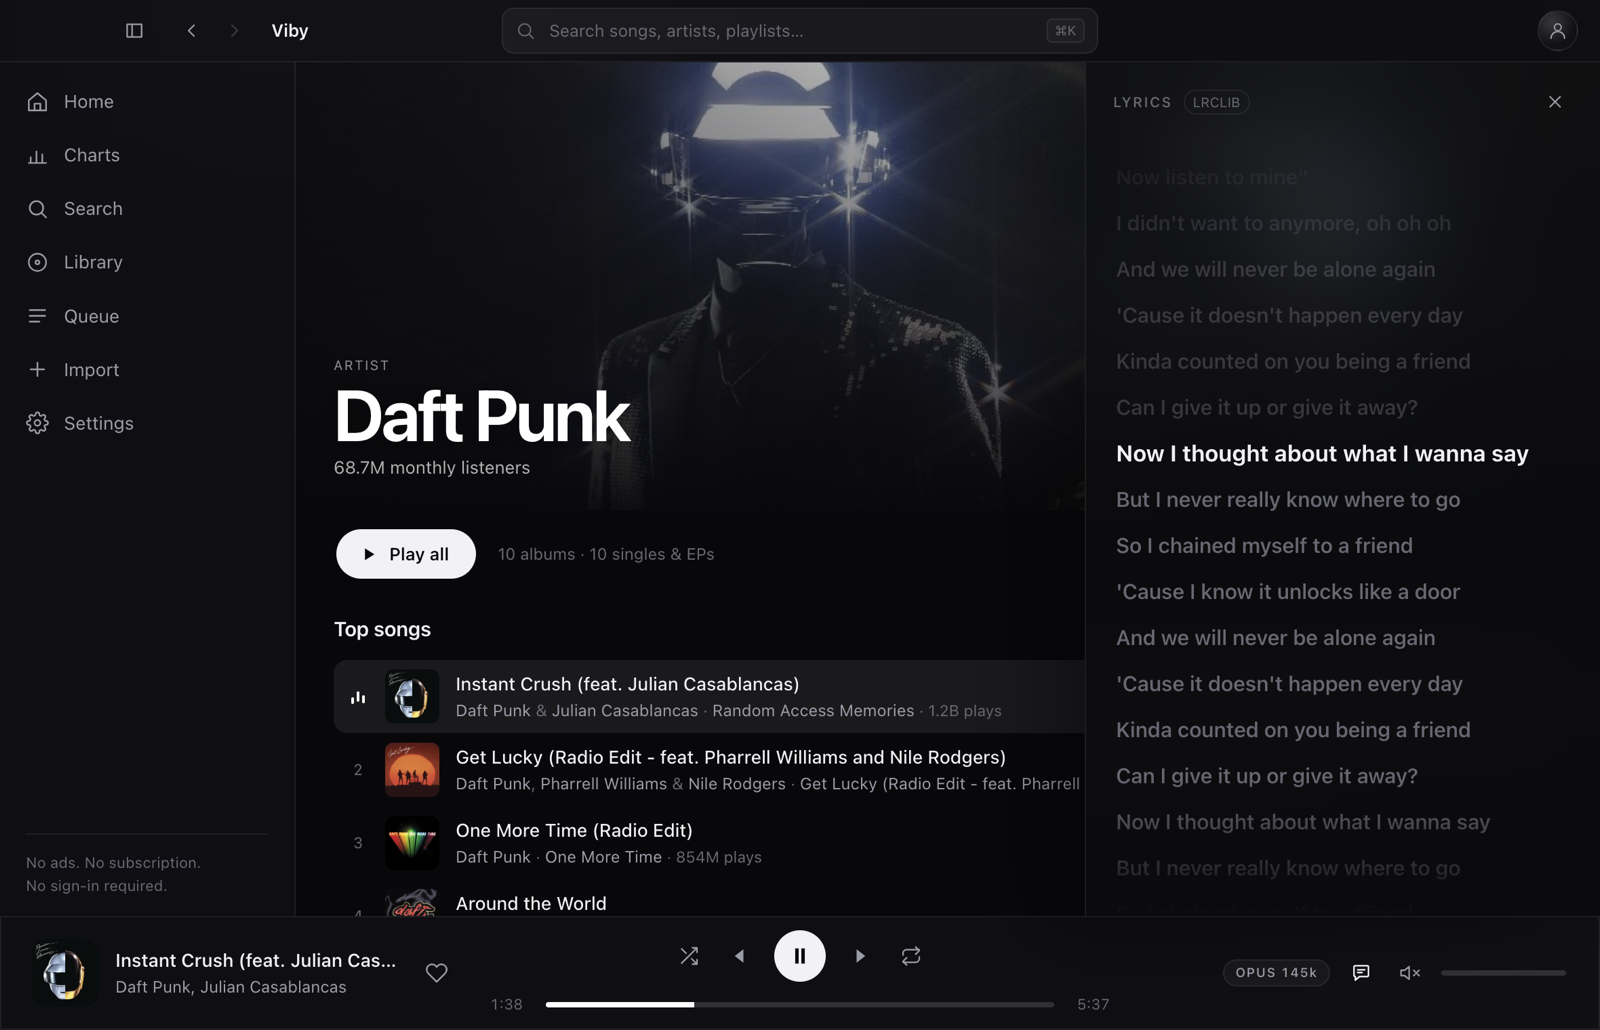
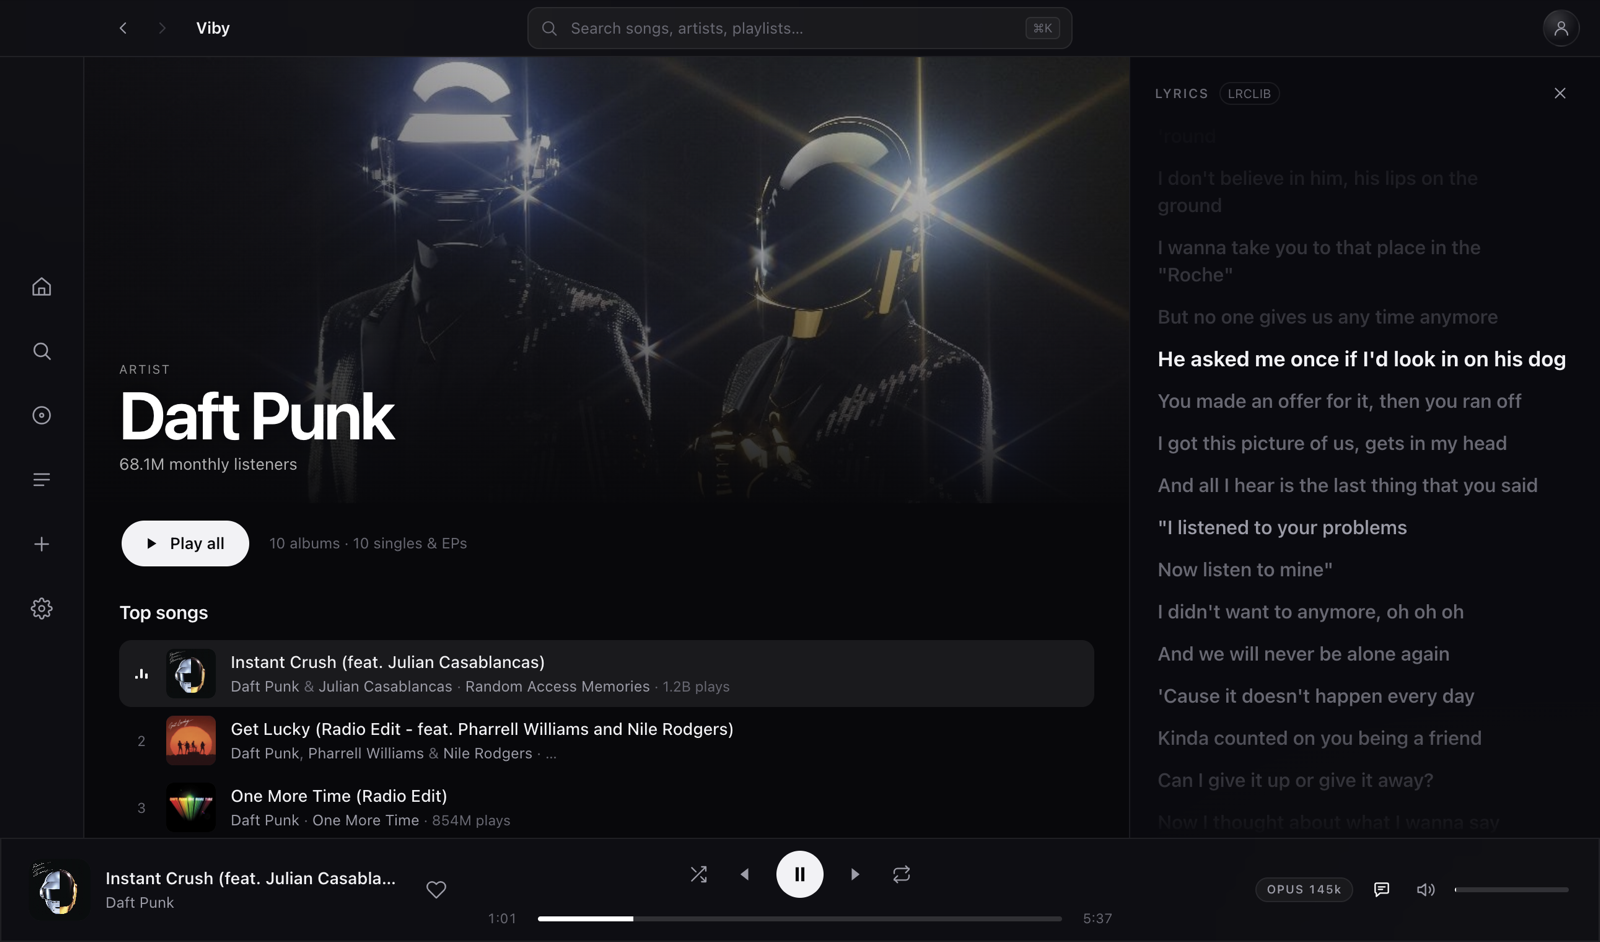
Dock lyrics as a right sidebar that reflows the page

diff --git a/src/renderer/components/LyricsPanel.svelte b/src/renderer/components/LyricsPanel.svelte
@@ -61,86 +61,77 @@
 </script>
 
 <aside class="panel" class:open={lyrics.open} aria-hidden={!lyrics.open} aria-label="Lyrics">
-  <header>
-    <span class="eyebrow">Lyrics</span>
-    {#if lyrics.data?.source}
-      <span class="source">{lyrics.data.source}</span>
-    {/if}
-    <button class="close" onclick={() => lyrics.close()} aria-label="Close lyrics">
-      <Icon name="close" size={15} />
-    </button>
-  </header>
+  <div class="panel-inner">
+    <header>
+      <span class="eyebrow">Lyrics</span>
+      {#if lyrics.data?.source}
+        <span class="source">{lyrics.data.source}</span>
+      {/if}
+      <button class="close" onclick={() => lyrics.close()} aria-label="Close lyrics">
+        <Icon name="close" size={15} />
+      </button>
+    </header>
 
-  <div class="body">
-    {#if lyrics.loading}
-      <p class="status">Finding lyrics…</p>
-    {:else if lyrics.error}
-      <p class="status">{lyrics.error}</p>
-    {:else if !lyrics.data || lyrics.data.kind === 'none'}
-      <p class="status">No lyrics for this track.</p>
-    {:else if lyrics.data.kind === 'instrumental'}
-      <p class="status">Instrumental.</p>
-    {:else if lyrics.data.kind === 'plain'}
-      <div class="plain scroll">{lyrics.data.plain}</div>
-    {:else}
-      <div class="lines scroll" bind:this={listEl}>
-        {#each lines as line, i (i)}
-          <button
-            class="line"
-            class:active={i === activeIndex}
-            class:past={i < activeIndex}
-            bind:this={lineEls[i]}
-            onclick={() => seek(i)}
-          >
-            {line.text}
-          </button>
-        {/each}
-      </div>
-    {/if}
+    <div class="body">
+      {#if lyrics.loading}
+        <p class="status">Finding lyrics…</p>
+      {:else if lyrics.error}
+        <p class="status">{lyrics.error}</p>
+      {:else if !lyrics.data || lyrics.data.kind === 'none'}
+        <p class="status">No lyrics for this track.</p>
+      {:else if lyrics.data.kind === 'instrumental'}
+        <p class="status">Instrumental.</p>
+      {:else if lyrics.data.kind === 'plain'}
+        <div class="plain scroll">{lyrics.data.plain}</div>
+      {:else}
+        <div class="lines scroll" bind:this={listEl}>
+          {#each lines as line, i (i)}
+            <button
+              class="line"
+              class:active={i === activeIndex}
+              class:past={i < activeIndex}
+              bind:this={lineEls[i]}
+              onclick={() => seek(i)}
+            >
+              {line.text}
+            </button>
+          {/each}
+        </div>
+      {/if}
+    </div>
   </div>
 </aside>
 
 <style>
   .panel {
-    position: fixed;
-    top: var(--titlebar-h);
-    right: 0;
-    bottom: var(--player-h);
-    width: min(380px, 44vw);
-    z-index: 40;
-    display: flex;
-    flex-direction: column;
-    background: rgba(11, 11, 15, 0.78);
-    backdrop-filter: blur(32px) saturate(150%);
-    -webkit-backdrop-filter: blur(32px) saturate(150%);
+    grid-column: 3;
+    grid-row: 2;
+    min-width: 0;
+    min-height: 0;
+    overflow: hidden;
+    background: var(--bg);
     border-left: 1px solid var(--stroke);
-    box-shadow: -30px 0 60px rgba(0, 0, 0, 0.35);
-    transform: translateX(102%);
-    opacity: 0;
     pointer-events: none;
-    /* `visibility` waits for the slide to finish, so the panel is out of the
-       tab order when closed without cutting the animation short. (`inert`
-       froze the transition mid-flight in this Chromium build.) */
     visibility: hidden;
-    /* Closing is the entrance played backwards: the panel slides right for the
-       same 300ms. The fade is linear over the whole slide so the motion stays
-       visible; the old ease-out fade dropped to 17% opacity in 60ms, which read
-       as the panel blinking out rather than leaving. */
-    transition:
-      transform 300ms var(--ease),
-      opacity 300ms linear,
-      visibility 0s linear 300ms;
+    /* The grid track collapses over 300ms. Keep the panel visible until the
+       collapse finishes so the content is clipped rather than disappearing. */
+    transition: visibility 0s linear 300ms;
   }
 
   .panel.open {
-    transform: translateX(0);
-    opacity: 1;
     pointer-events: auto;
     visibility: visible;
-    transition:
-      transform 300ms var(--ease),
-      opacity 220ms var(--ease),
-      visibility 0s;
+    transition: visibility 0s;
+  }
+
+  /* Keep the inner panel at a stable width while the grid track animates. If
+     the panel itself narrowed, every lyric line would reflow during the
+     expansion. */
+  .panel-inner {
+    width: var(--lyrics-w);
+    height: 100%;
+    display: flex;
+    flex-direction: column;
   }
 
   header {

diff --git a/src/renderer/App.svelte b/src/renderer/App.svelte
@@ -41,6 +41,18 @@
 
   const isMac = api.platform === 'darwin'
 
+  // The lyrics sidebar is sized in viewport units. Disable the grid transition
+  // while the window is being resized, otherwise the track chases the pointer
+  // for 300ms and the page feels laggy.
+  let resizing = $state(false)
+  let resizeTimer: ReturnType<typeof setTimeout> | null = null
+
+  function onResize(): void {
+    resizing = true
+    if (resizeTimer) clearTimeout(resizeTimer)
+    resizeTimer = setTimeout(() => (resizing = false), 180)
+  }
+
   function isActive(id: View): boolean {
     return nav.view === id && !nav.detail && !nav.track && !nav.collection
   }
@@ -137,9 +149,9 @@
   })
 </script>
 
-<svelte:window onclick={() => (netMenu = false)} />
+<svelte:window onclick={() => (netMenu = false)} onresize={onResize} />
 
-<div class="layout">
+<div class="layout" class:lyrics-open={lyrics.open} class:resizing>
   <!-- The window has no native title bar on macOS, so this strip is the only
        draggable area. Everything interactive inside it must opt out. -->
   <header class="titlebar" class:mac={isMac}>
@@ -305,9 +317,9 @@
     {/if}
   </main>
 
+  <LyricsPanel />
   <PlayerBar />
   <PlaylistPicker />
-  <LyricsPanel />
 
   {#if backOnline}
     <div class="toast" role="status">
@@ -319,15 +331,26 @@
 <style>
   .layout {
     display: grid;
-    grid-template-columns: var(--sidebar-w) minmax(0, 1fr);
+    grid-template-columns: var(--sidebar-w) minmax(0, 1fr) 0px;
     grid-template-rows: var(--titlebar-h) minmax(0, 1fr) var(--player-h);
     height: 100vh;
+    transition: grid-template-columns 300ms var(--ease);
+  }
+
+  /* The lyrics panel lives in the third column. The titlebar and player stay
+     full width; only the content row gives up space. */
+  .layout.lyrics-open {
+    grid-template-columns: var(--sidebar-w) minmax(0, 1fr) var(--lyrics-w);
+  }
+
+  /* Window resizes should reflow immediately, not animate behind the pointer. */
+  .layout.resizing {
+    transition: none;
   }
 
   .titlebar {
     position: relative;
-    /* Above the lyrics panel (40), below the playlist picker (90). The search
-       palette must be able to float over any page surface. */
+    /* Above the page content and below the playlist picker (90). */
     z-index: 70;
     grid-column: 1 / -1;
     grid-row: 1;

diff --git a/src/renderer/styles/global.css b/src/renderer/styles/global.css
@@ -33,6 +33,7 @@
   --shadow-card: 0 18px 40px rgba(0, 0, 0, 0.5);
 
   --sidebar-w: 68px;
+  --lyrics-w: clamp(320px, 30vw, 380px);
   --player-h: 84px;
   --titlebar-h: 46px;
 

diff --git a/PLAN.md b/PLAN.md
@@ -231,7 +231,7 @@ The budget is a hard constraint, not an aspiration. If a change breaks it, the c
 - **Startup:** shell 858–902 ms warm; 1.2–1.7 s on the first launch after a build. Home cards render in the same frame when the shelf cache is warm.
 - **Bundle (2026-10-22, Electron 45 build):** 388 KB JS + 85 KB CSS raw = **~92 KB gzip**.
 - **Soak:** +2 MB RSS over 2 minutes of playback, no leak.
-- **Lyrics cost:** the panel's 32px `backdrop-filter` is the biggest GPU consumer. A clean cached-track test went from 12.9% to 10.3% CPU with the panel blur disabled; the dock/titlebar glass showed no measurable cost. The 5% playing target in §6 is therefore **not met on this Intel machine** while the window is visible — it sits at ~9% of one core. The UI is still well inside the RAM ceiling, and idle CPU is effectively zero.
+- **Lyrics cost:** the old overlay's 32px `backdrop-filter` was the biggest GPU consumer (12.9% → 10.3% CPU with the blur disabled). The docked panel no longer uses it, so the “Playing + lyrics” row above predates that change and should be re-measured. The dock/titlebar glass showed no measurable cost. The 5% playing target in §6 is still **not met on this Intel machine** while the window is visible — it sits at ~9% of one core. The UI is still well inside the RAM ceiling, and idle CPU is effectively zero.
 - **Caveat:** CPU depends heavily on window visibility (macOS throttles an occluded window); samples were taken with the app frontmost via LaunchServices.
 
 Techniques that get us there:
@@ -687,23 +687,21 @@ Verified one active row + equalizer on album pages (current `_vOcbrUsmjM`, sourc
 
 **Source.** LRCLIB (`https://lrclib.net/api`), the only keyless source with reliable time-synced lyrics for music. `/get` first with artist, cleaned title, album and duration; on a miss, `/search` and pick the result closest in duration with synced lyrics preferred. `instrumental` is respected, and plain lyrics are the fallback. Results — including misses — are cached in `lyrics.json` (300 entries, misses retried after 24h), so a track is looked up once.
 
-**Panel.** A glass sidebar docked to the right edge (320–380px), sliding in over 300ms with `translateX` + opacity and `pointer-events: none` when closed. Header shows `LYRICS · LRCLIB` and a close button. Synced lines fade at the top and bottom via a mask, the active line scales up and turns white, past lines dim to 45%. The list auto-centres: an instant jump on open, smooth scrolling on every line change. Clicking a line seeks to it.
+**Panel.** A docked right sidebar in the content row, `clamp(320px, 30vw, 380px)` wide. Opening expands a third grid column over 300ms and reflows the page; the titlebar and player bar stay full width. The panel uses a solid dark surface rather than backdrop blur because the page no longer sits behind it. Header shows `LYRICS · LRCLIB` and a close button. Synced lines fade at the top and bottom via a mask, the active line scales up and turns white, past lines dim to 45%. The list auto-centres: an instant jump on open, smooth scrolling on every line change. Clicking a line seeks to it.
 
-**Trigger.** A mic button sits between the quality tag and the mute control in the player bar, marked active while the panel is open; it toggles. The panel reloads automatically when the track changes while open and is disabled when nothing is playing.
+**Trigger.** A lyrics button sits between the quality tag and the mute control in the player bar, marked active while the panel is open; it toggles. The panel reloads automatically when the track changes while open and is disabled when nothing is playing.
 
-**Verified.** 80 synced lines for *Instant Crush*, cache hit in 0ms, unknown track → `none`; UI: panel opens (`open`, 80 lines, 1 active, `LRCLIB`), clicking a lyric seeks, closing slides it out (`translateX(102%)`, pointer-events none).
+**Verified.** 80 synced lines for *Instant Crush*, cache hit in 0ms, unknown track → `none`; UI: panel opens (`open`, 80 lines, 1 active, `LRCLIB`), the content column shrinks by the panel width instead of being covered, clicking a lyric seeks, and closing restores the page width.
 
 Deviation from the original plan: the YouTube `timedtext` fallback was dropped — it almost never exists for music, and `lyrics.ovh` now covers the plain-text backup.
 
 ### Lyrics polish
 
-- **Closing transition.** `inert` on the panel froze the slide-out mid-flight in this Chromium build (it stalled ~30ms in at 92px). Replaced with `visibility: hidden` delayed by the transition duration, which keeps the panel out of the tab order when closed without interrupting the animation. Verified: 0 → 277px → 388px, opacity 1 → 0.17 → 0, then hidden.
+- **Docked layout (2026-10-23).** The panel moved from a fixed overlay to a third grid column in the content row. The track animates from `0` to `clamp(320px, 30vw, 380px)` over 300ms, so the page reflows instead of being covered; the titlebar and player bar stay full width. The inner panel keeps its final width while the track animates, so lyric lines do not re-wrap mid-slide. `visibility` is delayed by 300ms on close so the content is clipped rather than blinking out. The 32px backdrop blur was dropped because a docked panel has no page content behind it. Home keeps its horizontal carousels: the page reflows around the docked panel and the rails scroll internally instead of overflowing the page. The panel's background matches the body background so the content's right padding gap does not read as a black bleed on non-artist pages.
 - **Icon.** The microphone implied call muting; the button now uses a speech-bubble-with-lines glyph (Apple Music style).
 - **Backup source.** If LRCLIB returns nothing (exact and search), `lyrics.ovh` is queried for plain text before giving up. "No lyrics" now means both sources came back empty. The result carries its source (`LRCLIB` / `lyrics.ovh`) in the panel header, and misses are still cached for 24h.
 - **Line padding.** The active line's `scale(1.08)` is anchored to its left edge, so it stays aligned with every other line at the 22px inset. The container reserves the growth on the right (48px padding instead of 22px): the scaled box ends ~23px from the panel edge instead of overflowing it, and text still wraps at the same word boundaries when a line activates (no reflow jump). Inactive lines keep the 22px left inset; their wrap width is 8% narrower to provide the headroom. Verified with the longest line active: active and inactive text both start at x=823, the scaled box ends at 1156.7 against a panel edge of 1180, and `scrollWidth === clientWidth`.
 - **Track change.** When the next song's lyrics load while the panel is open, the panel glides back to the top instead of snapping or inheriting the old position. The cached path reused the same `<div class="lines">`, so the previous song's scroll position (2809px at the end of *Instant Crush*) survived the track change and only moved once the new first line became active. The effect now watches the lyrics data object and starts `scrollTo({ top: 0, behavior: 'smooth' })` as soon as the new lyrics render — before the first timestamp — then centres the active line. Measured: starts at the clamped 1611px and settles at 0 in ~650ms. Regression: `lyrics-change` asserts both halves (it must not teleport; it must settle at the top).
-- **Exit animation.** Closing mirrors the entrance: the same 300 ms `translateX(0 → 102%)` slide to the right, with the opacity fade spread linearly across the whole slide. The old exit used the entrance's 220 ms ease-out fade, which hit 17% opacity in 60 ms — the panel visually blinked out while 71% of it was still on screen. Measured after the fix: 45 ms → x=232, opacity 0.83; 112 ms → x=353, 0.61; fully hidden at ~311 ms, after it is off-screen. The entrance is untouched.
-
 Verified: LRCLIB wins for *Instant Crush* (80 synced lines); `fetchOvhLyrics` returns 2911 characters of plain text from lyrics.ovh.
 
 ### Cached badge removed

diff --git a/README.md b/README.md
@@ -31,7 +31,7 @@ Browse artists, albums and playlists. Build a library that stays yours. Follow a
 
 - **A player that behaves.** Queue, shuffle, repeat, media keys, resume where you left off, and a local cache that makes replays instant.
 - **A catalogue worth browsing.** Search from the titlebar as you type (`⌘K` / `Ctrl K`), then open the full results page with filters, home shelves, and artist and album pages with real discographies.
-- **Lyrics that keep up.** Time-synced lyrics from LRCLIB, with lyrics.ovh as a plain-text fallback, click-to-seek, and a panel that stays out of the way.
+- **Lyrics that keep up.** Time-synced lyrics from LRCLIB, with lyrics.ovh as a plain-text fallback, click-to-seek, and a docked sidebar that leaves the page usable.
 - **A library that stays yours.** Liked songs, playlists and history stored locally and fully usable signed out. Optional encrypted backup and sync is planned after the beta.
 - **Offline when you need it.** Download songs, albums, playlists or Liked Songs and play them without a connection. Search and browsing need the network; your downloads do not.
 - **Import from a link.** Paste a public Spotify, Apple Music, Deezer, YouTube Music or SoundCloud playlist. Tracks are matched by title, artist and duration; anything uncertain is flagged for review, never silently swapped.
@@ -47,10 +47,10 @@ Browse artists, albums and playlists. Build a library that stays yours. Follow a
 </p>
 
 <p align="center">
-  <img src="docs/screenshots/lyrics.png" alt="Time-synced lyrics panel over an artist page" />
+  <img src="docs/screenshots/lyrics.png" alt="Time-synced lyrics docked beside an artist page" />
 </p>
 <p align="center">
-  <sub>Time-synced lyrics; click any line to seek.</sub>
+  <sub>Time-synced lyrics docked beside the page; click any line to seek.</sub>
 </p>
 
 <p align="center">

diff --git a/TESTING.md b/TESTING.md
@@ -100,12 +100,12 @@ the app while they run — they own the queue.
 
 | Scenario | Covers |
 |---|---|
-| `images` | Home artwork actually renders, no broken images |
+| `images` | Home artwork actually renders, home carousels stay inside the docked page, no broken images |
 | `playback` | start, seek a cached file, auto-advance, dock sync, quality tag |
 | `reconnect` | a dead source on resume shows the spinner and re-resolves |
 | `autoplay` | radio extension when the queue ends |
 | `links` | player-bar title → song page, artist link, related list |
-| `lyrics` | panel opens, synced active line, click-to-seek, closes |
+| `lyrics` | panel opens docked beside the page, page width shrinks and restores, synced active line, click-to-seek, closes |
 | `lyrics-change` | a new track's lyrics reset to the top (no inherited scroll) |
 | `library` | playlist create/list/open/delete |
 | `resume` | session save → reload → restored paused at the timestamp |
